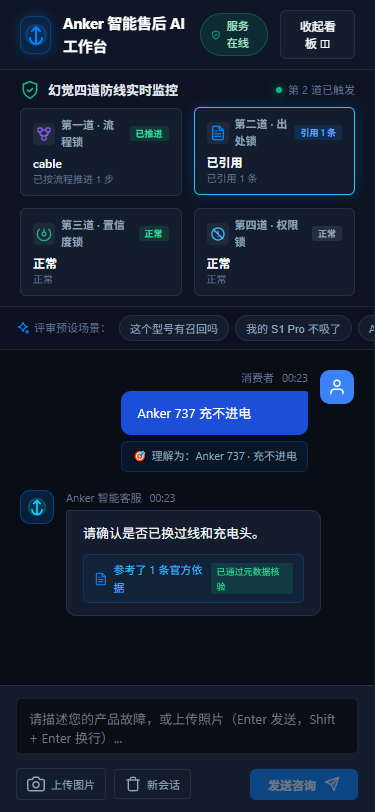
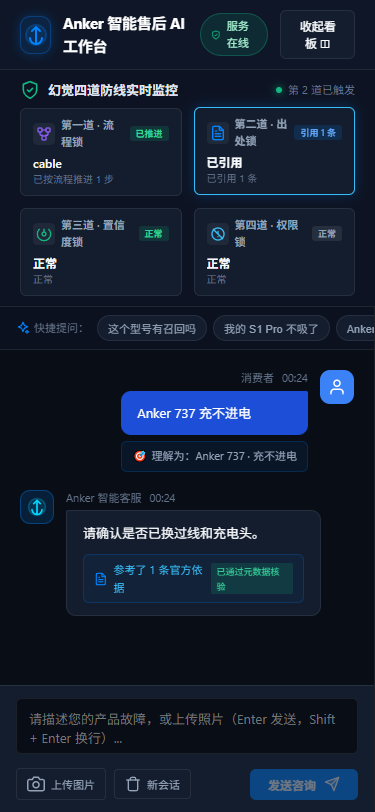
refactor(frontend): B2 欢迎区与快捷提问文案去掉机制名

diff --git a/frontend/src/components/ChatWindow.tsx b/frontend/src/components/ChatWindow.tsx
@@ -101,7 +101,7 @@ export default function ChatWindow({
       <div className="demo-presets-strip">
         <span className="presets-label">
           <IconSparkles size={14} color="#0084ff" />
-          <span>评审预设场景：</span>
+          <span>快捷提问：</span>
         </span>
         <div className="presets-buttons">
           {DEMO_PRESETS.map((p, idx) => (
@@ -127,22 +127,8 @@ export default function ChatWindow({
             </div>
             <h2>Anker 智能售后服务</h2>
             <p className="welcome-subtitle">
-              办得成，更办得安全 —— 严守 SOP 排障、出处溯源与防幻觉四道防线
+              描述您遇到的问题，或上传故障照片；也可以直接点下面的常见问题。
             </p>
-            <div className="welcome-features-list">
-              <div className="feature-item">
-                <span className="feature-dot" />
-                <span><strong>看图排障：</strong>支持上传故障照片，自动抽取四元组并跳级排查</span>
-              </div>
-              <div className="feature-item">
-                <span className="feature-dot" />
-                <span><strong>绝不瞎编：</strong>知识库未命中时诚实升级专员，杜绝虚构质保与召回承诺</span>
-              </div>
-              <div className="feature-item">
-                <span className="feature-dot" />
-                <span><strong>情绪安抚：</strong>三级情绪分层递进，连续暴怒或投诉即刻建单交接</span>
-              </div>
-            </div>
           </div>
         ) : (
           messages.map(m => (
